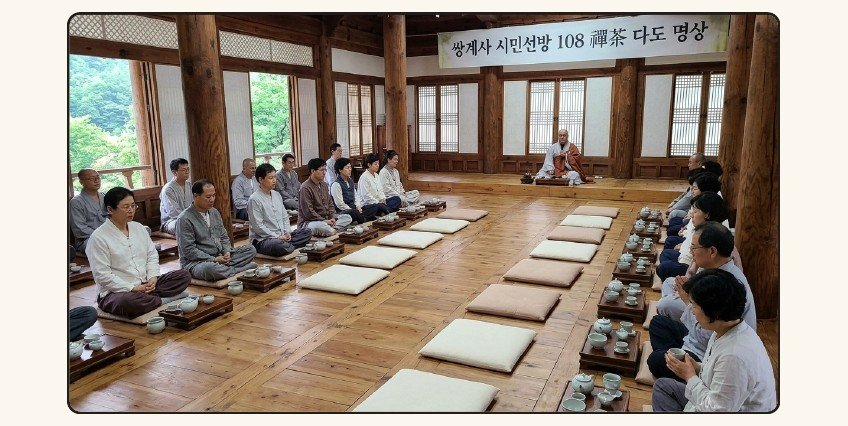
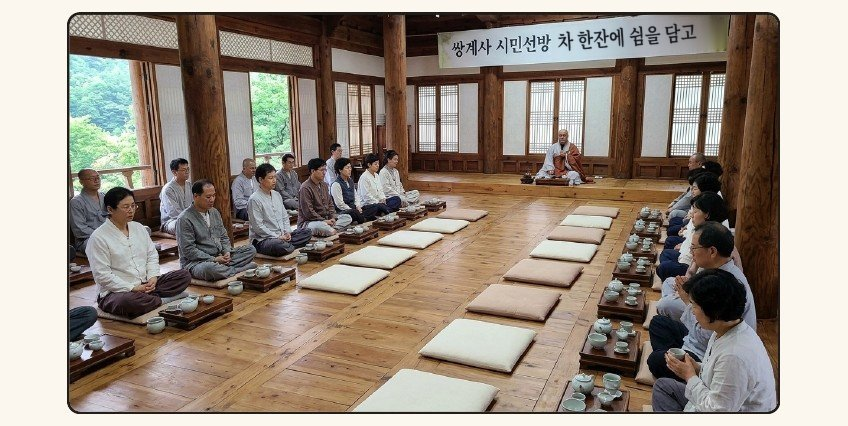
스마트스토어 상세: 프로그램 04 사진 현수막 문구를 '차 한잔에 쉼을 담고'로 수정
Claude-Session: https://claude.ai/code/session_012vboyduT7oNzYuRhG7chGZ

Changed region(s): [[0.6439, 0.0305, 0.8585, 0.1221]]

diff --git a/store-detail/README.md b/store-detail/README.md
@@ -78,5 +78,6 @@
 ## 변경 이력
 
 - 2026-10-17: 프로그램명 '108선다 다도 명상' → **'차 한잔에 쉼을 담고'** (티켓 판매 안내, 프로그램 04, 타임테이블 이미지).
-  단, `20-program-04-tea-meditation.jpg` 사진 속 현수막 글씨("쌍계사 시민선방 108 禪茶 다도 명상")는 사진 일부라 그대로임.
+  `20-program-04-tea-meditation.jpg` 사진 속 현수막 글씨도 "쌍계사 시민선방 108 禪茶 다도 명상" → "쌍계사 시민선방 차 한잔에 쉼을 담고" 로 합성 수정
+  (기존 글씨를 현수막 배경색으로 지우고 Noto Serif KR 로 같은 기울기에 맞춰 넣음. 수정 전 사진은 커밋 beab192 에 있음).
 - 2026-10-17: 타임테이블 저녁 사찰공양 시간 18:00–19:30 → 17:00~ (대표님 확인)
